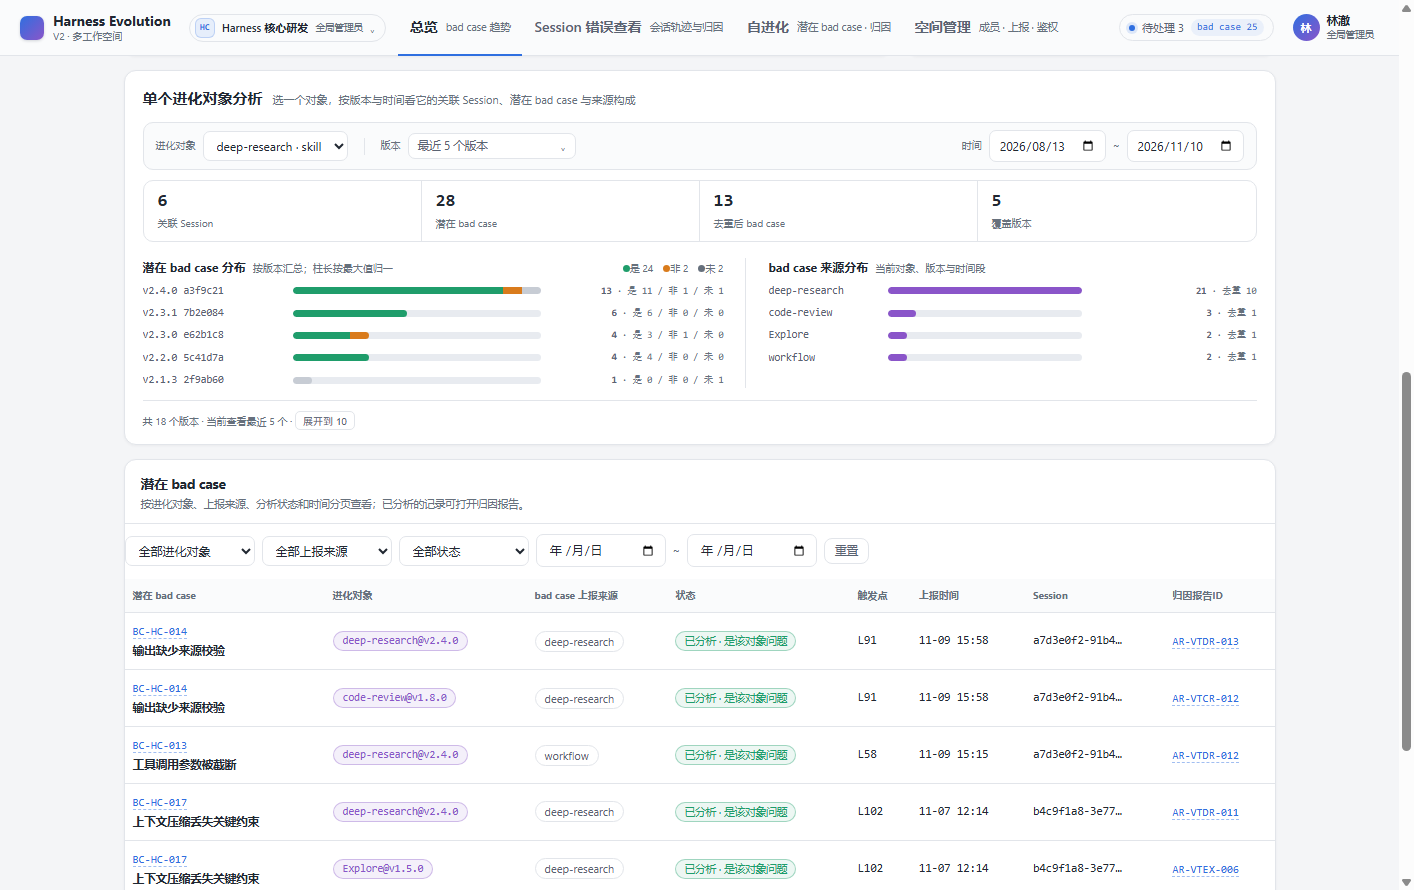
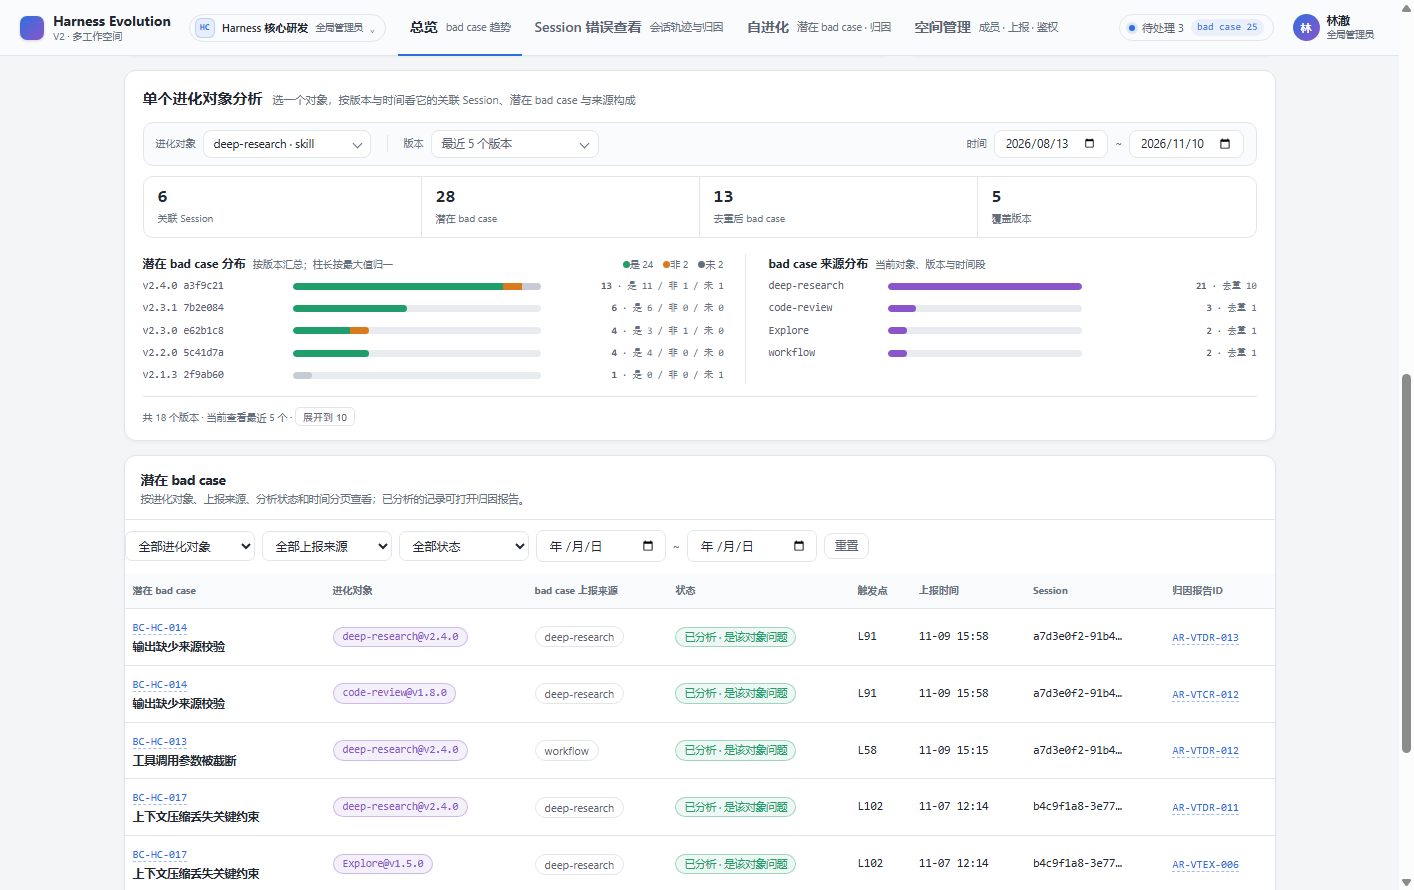
fix(prototype): unify target and version dropdown controls (#204)

diff --git a/plans/ui-prototype-v2/harness-evolution.html b/plans/ui-prototype-v2/harness-evolution.html
@@ -1036,6 +1036,27 @@
 .v2-page .td-head .hint { font-size: 11px; color: var(--text-faint); }
 .v2-page .td-toolbar { display: flex; align-items: center; gap: 8px 14px; flex-wrap: wrap; padding: 7px 12px; margin: 12px 0 10px; border: 1px solid var(--border); border-radius: 10px; background: var(--bg-panel); }
 .v2-page .td-toolbar .ov-filter-label { font-size: 10px; color: var(--text-faint); }
+.v2-page .td-toolbar .inp,
+.v2-page .td-ver-multi summary { height: 28px; border-radius: 8px; font-size: 11.5px; background: var(--bg-card); border-color: var(--border); }
+.v2-page .td-toolbar .inp { padding: 0 10px; }
+.v2-page .td-toolbar .inp:hover,
+.v2-page .td-ver-multi summary:hover,
+.v2-page .td-toolbar .inp:focus-visible,
+.v2-page .td-ver-multi summary:focus-visible { border-color: var(--blue); outline: none; box-shadow: 0 0 0 3px color-mix(in srgb, var(--blue) 10%, transparent); }
+.v2-page .td-ctl { position: relative; display: inline-flex; align-items: center; }
+.v2-page .td-ctl select { appearance: none; -webkit-appearance: none; cursor: pointer; text-overflow: ellipsis; min-width: 168px; }
+.v2-page .td-toolbar .td-ctl select { padding-right: 30px; }
+.v2-page .td-ctl::after,
+.v2-page .td-ver-multi summary::after {
+  content: ""; position: absolute; top: 50%; right: 10px; width: 6px; height: 6px; margin-top: -4px;
+  border-right: 1.5px solid var(--text-faint); border-bottom: 1.5px solid var(--text-faint);
+  transform: rotate(45deg); pointer-events: none;
+}
+.v2-page .td-ctl:hover::after { border-color: var(--blue); }
+.v2-page .td-ver-multi summary { position: relative; padding: 0 28px 0 10px; min-width: 150px; }
+.v2-page .td-ver-multi summary .caret { display: none; }
+.v2-page .td-ver-multi[open] summary { border-color: var(--blue); }
+.v2-page .td-ver-multi[open] summary::after { transform: rotate(-135deg); margin-top: -2px; }
 .v2-page .td-toolbar-spacer { margin-left: auto; }
 .v2-page .td-statstrip { display: grid; grid-template-columns: repeat(4, minmax(0, 1fr)); border: 1px solid var(--border); border-radius: 10px; overflow: hidden; margin-bottom: 16px; }
 .v2-page .td-cell { padding: 9px 14px; border-right: 1px solid var(--border); }
@@ -4861,7 +4882,7 @@ function v2TargetDetailCard() {
     ${head}
     <div class="td-toolbar">
       <div class="ov-filter-group"><span class="ov-filter-label">进化对象</span>
-        <select class="inp" data-v2-td-target>${d.targets.map(t => `<option value="${t.id}" ${t.id === td.targetId ? 'selected' : ''}>${v2Esc(t.objectName)} · ${v2Esc(t.kind)}</option>`).join('')}</select>
+        <span class="td-ctl"><select class="inp" data-v2-td-target>${d.targets.map(t => `<option value="${t.id}" ${t.id === td.targetId ? 'selected' : ''}>${v2Esc(t.objectName)} · ${v2Esc(t.kind)}</option>`).join('')}</select></span>
       </div>
       <span class="ov-filter-sep"></span>
       <div class="ov-filter-group"><span class="ov-filter-label">版本</span>

diff --git a/.agents/notes/implemented/bug-fix/2026-11-11-ui-prototype-v2-ui-polish.en.md b/.agents/notes/implemented/bug-fix/2026-11-11-ui-prototype-v2-ui-polish.en.md
@@ -32,7 +32,7 @@ The fifth turn adds two distribution blocks inside the trend card: associated Se
 
 The sixth turn moves the source distribution out of the trend card into a new "single evolution target" card: the target select is required and defaults to the first enabled target, falling back to an empty state with a "configure targets" entry when the workspace has none; the version multi-select starts empty (meaning the newest five), its footer pins a 5 / 10 / 20 / all switch, and the card footer offers a "expand to 10" shortcut; the date range is independent of the overview filter. The card shows object-level stats (associated Sessions, potential bad cases, deduplicated, covered versions) plus two distributions: potential bad cases stacked per version and deduplicated counts per source.
 
-The seventh turn only changes layout: the stats collapse into one divided strip; filters move into a tinted toolbar with the date range pushed right; the columns get a 1px divider and 22px inner padding, switching to a single column with a horizontal divider below 1100px; the left column gains an is / not / unanalyzed summary legend in its header; empty versions drop to 60% opacity and read "no potential bad case"; and the footnote moves to the card bottom across both columns.
+The seventh turn only changes layout: the stats collapse into one divided strip; filters move into a tinted toolbar with the date range pushed right; the columns get a 1px divider and 22px inner padding, switching to a single column with a horizontal divider below 1100px; the left column gains an is / not / unanalyzed summary legend in its header; empty versions drop to 60% opacity and read "no potential bad case"; and the footnote moves to the card bottom across both columns. The target and version dropdowns now share one control: 28px tall, 8px radius, a drawn chevron, native select appearance disabled with a 30px arrow gutter, and a blue border plus 3px ring on hover and focus.
 
 ## Alternatives considered
 

diff --git a/.agents/flow/issues/m6-ui-prototype-v2-ui-polish.en.md b/.agents/flow/issues/m6-ui-prototype-v2-ui-polish.en.md
@@ -58,7 +58,7 @@ The V2 prototype carries the multi-workspace overview, Session inspection, evolu
 - The sixth turn's card has independent filters: a required target select defaulting to the first enabled target (empty state with a configure prompt when the workspace has none), a version multi-select defaulting to the newest five and expandable to 10 / 20 / all, and a date range independent of the overview.
 - The sixth turn's card shows object-level stats (associated Sessions, potential bad cases, deduplicated, covered versions) plus a per-version stacked potential-bad-case distribution and a per-source deduplicated distribution.
 - Sixth-turn evidence lives under `plans/ui-prototype-v2/_ui-review/round6/`.
-- The seventh turn polishes the single-target card layout: stats collapse into one divided strip, filters move into a tinted toolbar with the date range on the right, the two columns get a divider, the left header gains an is / not / unanalyzed summary legend, empty versions are dimmed, and the footnote spans the card bottom.
+- The seventh turn polishes the single-target card layout: stats collapse into one divided strip, filters move into a tinted toolbar with the date range on the right, the two columns get a divider, the left header gains an is / not / unanalyzed summary legend, empty versions are dimmed, and the footnote spans the card bottom; the target and version dropdowns share one 28px control with an 8px radius and a drawn chevron.
 - Seventh-turn evidence lives under `plans/ui-prototype-v2/_ui-review/round7/`.
 
 ## Implementation steps

diff --git a/.agents/flow/issues/m6-ui-prototype-v2-ui-polish.md b/.agents/flow/issues/m6-ui-prototype-v2-ui-polish.md
@@ -58,7 +58,7 @@ V2 原型承载多工作空间下的总览、Session 查看、自进化与空间
 - 第六轮新卡支持独立筛选：对象必选并默认第一个（空间没有启用对象时置空并提示去配置）、版本多选且默认最近 5 个、可展开到 10 / 20 / 全部、起止时间独立于总览。
 - 第六轮新卡给出对象级统计（关联 Session / 潜在 bad case / 去重后 / 覆盖版本）与按版本的潜在 bad case 堆叠分布、按来源的去重数量分布。
 - 第六轮截图落在 `plans/ui-prototype-v2/_ui-review/round6/`。
-- 第七轮优化「单个进化对象分析」卡的版式：统计合并为一条内部分隔的统计条、筛选收进浅底工具条且时间靠右、两栏之间加分隔线、左栏标题右侧给出 是 / 非 / 未 汇总图例、零数据版本弱化、脚注横跨卡片底部。
+- 第七轮优化「单个进化对象分析」卡的版式：统计合并为一条内部分隔的统计条、筛选收进浅底工具条且时间靠右、两栏之间加分隔线、左栏标题右侧给出 是 / 非 / 未 汇总图例、零数据版本弱化、脚注横跨卡片底部；对象与版本两个下拉统一成 28px 高、8px 圆角、自绘 chevron 的控件。
 - 第七轮截图落在 `plans/ui-prototype-v2/_ui-review/round7/`。
 
 ## 实施步骤

diff --git a/plans/ui-prototype-v2/_ui-review/round7/README.md b/plans/ui-prototype-v2/_ui-review/round7/README.md
@@ -12,6 +12,7 @@
 | 4 | 每行重复「是 N / 非 N / 未 N」，但没有任何地方给出所选范围的汇总 | 左栏标题右侧放 是 / 非 / 未 汇总图例（颜色点 + 数字），行内保留明细 | `after-targets.png` |
 | 5 | 没有数据的版本与有数据的版本一样醒目 | 零数据版本整行降到 60% 透明度，数字位改写字「无潜在 bad case」 | `after-targets.png` |
 | 6 | 窄屏时两栏挤在一起 | 1100px 以下改单列，栏间分隔线转为横向分隔，统计条改两列 | `after-narrow.png` |
+| 7 | 对象与版本两个下拉形态不一致：原生 select 箭头样式随系统、高度与圆角跟版本摘要对不齐，长文本还会压到箭头上 | 统一为 28px 高、8px 圆角、自绘 chevron 的控件；select 关闭原生外观并预留 30px 箭头区，hover / focus 用蓝色描边加 3px 光环 | `after-controls.png` |
 
 ## 证据
 
